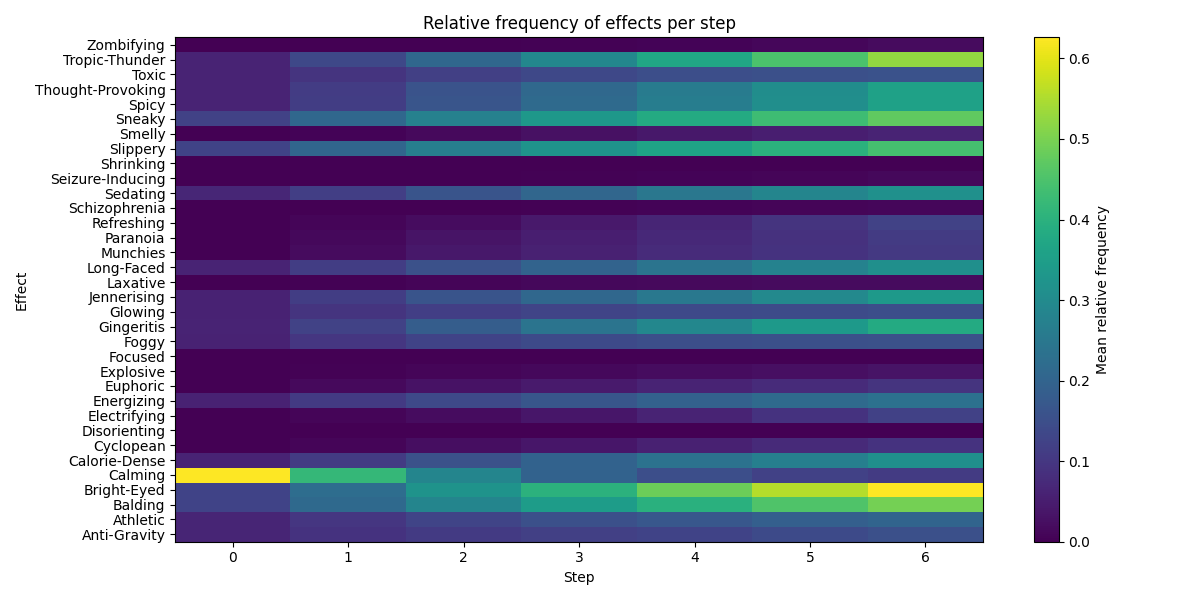
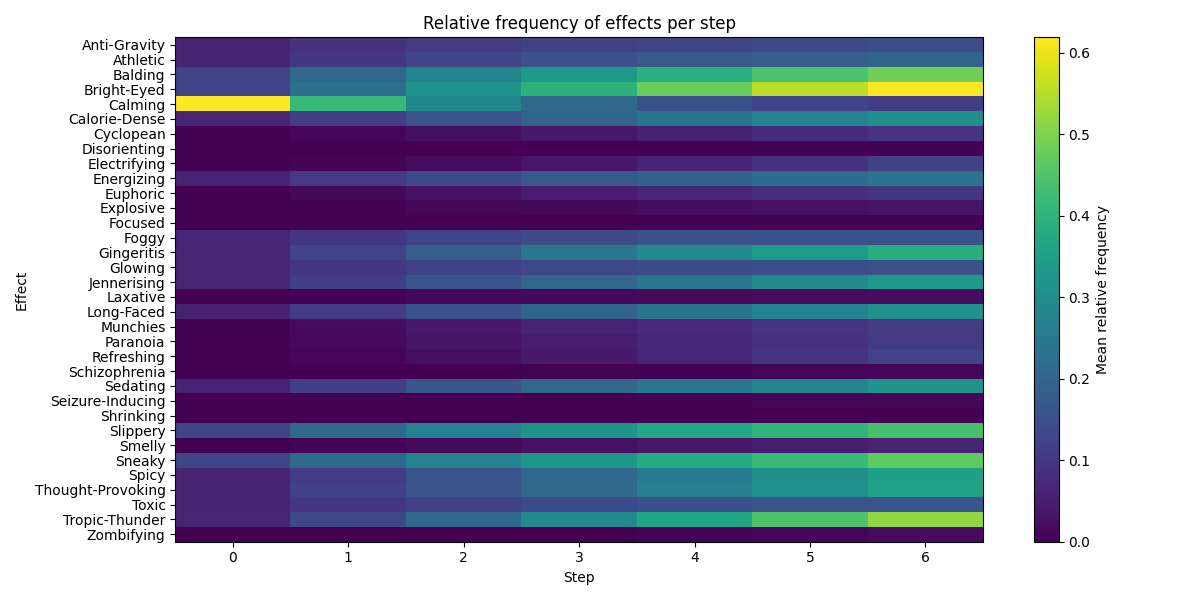
✨ add profit boxplot visualization; implement Sankey diagram for ingredient flows; update heatmap plotting; include plotly in requirements

diff --git a/code/plots.py b/code/plots.py
@@ -1,6 +1,7 @@
 """Script to visualize plots of optimization."""
 import matplotlib.pyplot as plt
 import numpy as np
+import plotly.graph_objects as go
 import torch
 from typing import List
 
@@ -24,12 +25,13 @@ def plot_ingredients_heatmap(
         ingredients_count.sum(dim=1, keepdim=True)
     ).cpu().numpy().T
 
+    # Create heatmap
     fig, ax = plt.subplots(figsize=(12, 6))
     im = ax.imshow(
         ingredients_proportion,
         aspect='auto',
         cmap='viridis',
-        origin='lower'
+        origin='upper'
     )
     ax.set_xlabel('Step')
     ax.set_ylabel('Ingredient')
@@ -53,19 +55,20 @@ def plot_effects_heatmap(
     n_effects = effects.shape[2]
 
     # Calculate mean presence of each effect per step
-    effects_mean = torch.zeros((num_steps, n_effects), dtype=torch.float32)
-    effects_count = torch.zeros(num_steps, dtype=torch.int32)
+    effects_frequency = torch.zeros(
+        (num_steps, n_effects),
+        dtype=torch.float32
+    )
     for step in range(num_steps):
-        effects_mean[step] = effects[step].mean(dim=0).float()
-        effects_count[step] = torch.unique(effects[step], dim=0).shape[0]
+        effects_frequency[step] = effects[step].mean(dim=0).float()
 
-    # Plot heatmap of effects_mean
+    # Create heatmap
     fig, ax = plt.subplots(figsize=(12, 6))
     im = ax.imshow(
-        effects_mean.cpu().numpy().T,
+        effects_frequency.cpu().numpy().T,
         aspect='auto',
         cmap='viridis',
-        origin='lower'
+        origin='upper'
     )
     ax.set_xlabel('Step')
     ax.set_ylabel('Effect')
@@ -103,3 +106,68 @@ def plot_profits_boxplot(profits: torch.Tensor):
     fig.tight_layout()
     fig.savefig("../plots/profit_boxplot.png")
     plt.show()
+
+
+def plot_sankey_diagram(
+    recipes: torch.Tensor,
+    profits: torch.Tensor,
+    ingredients_name: list
+):
+    """Plot a Sankey diagram for ingredient choices at each step.
+
+    Args:
+        recipes (torch.Tensor): Tensor of recipes with ingredient ids.
+        profits (torch.Tensor): Tensor of profit values.
+        ingredients_name (list): List of ingredients name.
+    """
+    num_steps, num_simulations = recipes.shape
+    n_ingredients = len(ingredients_name)
+    recipes = recipes.int()
+
+    # Build node labels
+    node_labels = []
+    node_map = {}
+    for step in range(num_steps):
+        unique_ingredients = np.unique(recipes[step])
+        for ingredient in unique_ingredients:
+            if ingredient < n_ingredients:
+                label = ingredients_name[ingredient]
+                node_map[(step, ingredient)] = len(node_labels)
+                node_labels.append(label)
+
+    # Accumulate flows weighted by profit at target step
+    flow_values = {}
+    for sim in range(num_simulations):
+        for step in range(num_steps - 1):
+            current_ingredient = recipes[step, sim].item()
+            next_ingredient = recipes[step + 1, sim].item()
+            if (
+                next_ingredient < n_ingredients and
+                current_ingredient < n_ingredients
+            ):
+                source = node_map[(step, current_ingredient)]
+                target = node_map[(step + 1, next_ingredient)]
+                value = profits[step + 1, sim].float()
+                flow_values[
+                    (source, target)
+                ] = flow_values.get((source, target), 0) + value
+
+    sources, targets, values = zip(
+        *[
+            (s, t, v) for (s, t), v in flow_values.items()
+        ]
+    )
+
+    # Plot
+    fig = go.Figure(
+        go.Sankey(
+            node=dict(label=node_labels, pad=15, thickness=15),
+            link=dict(
+                source=list(sources),
+                target=list(targets),
+                value=list(values)
+            )
+        )
+    )
+    fig.update_layout(title_text="Recipe Profit Sankey Diagram", font_size=12)
+    fig.show()

diff --git a/code/main.py b/code/main.py
@@ -60,6 +60,6 @@ plot_effects_heatmap(
     effects_name=chain.effects_df['effect_name'].tolist(),
 )
 
-# plot_profits_boxplot(
-#     profits=results_data['profits'],
-# )
+plot_profits_boxplot(
+    profits=results_data['profits'],
+)
